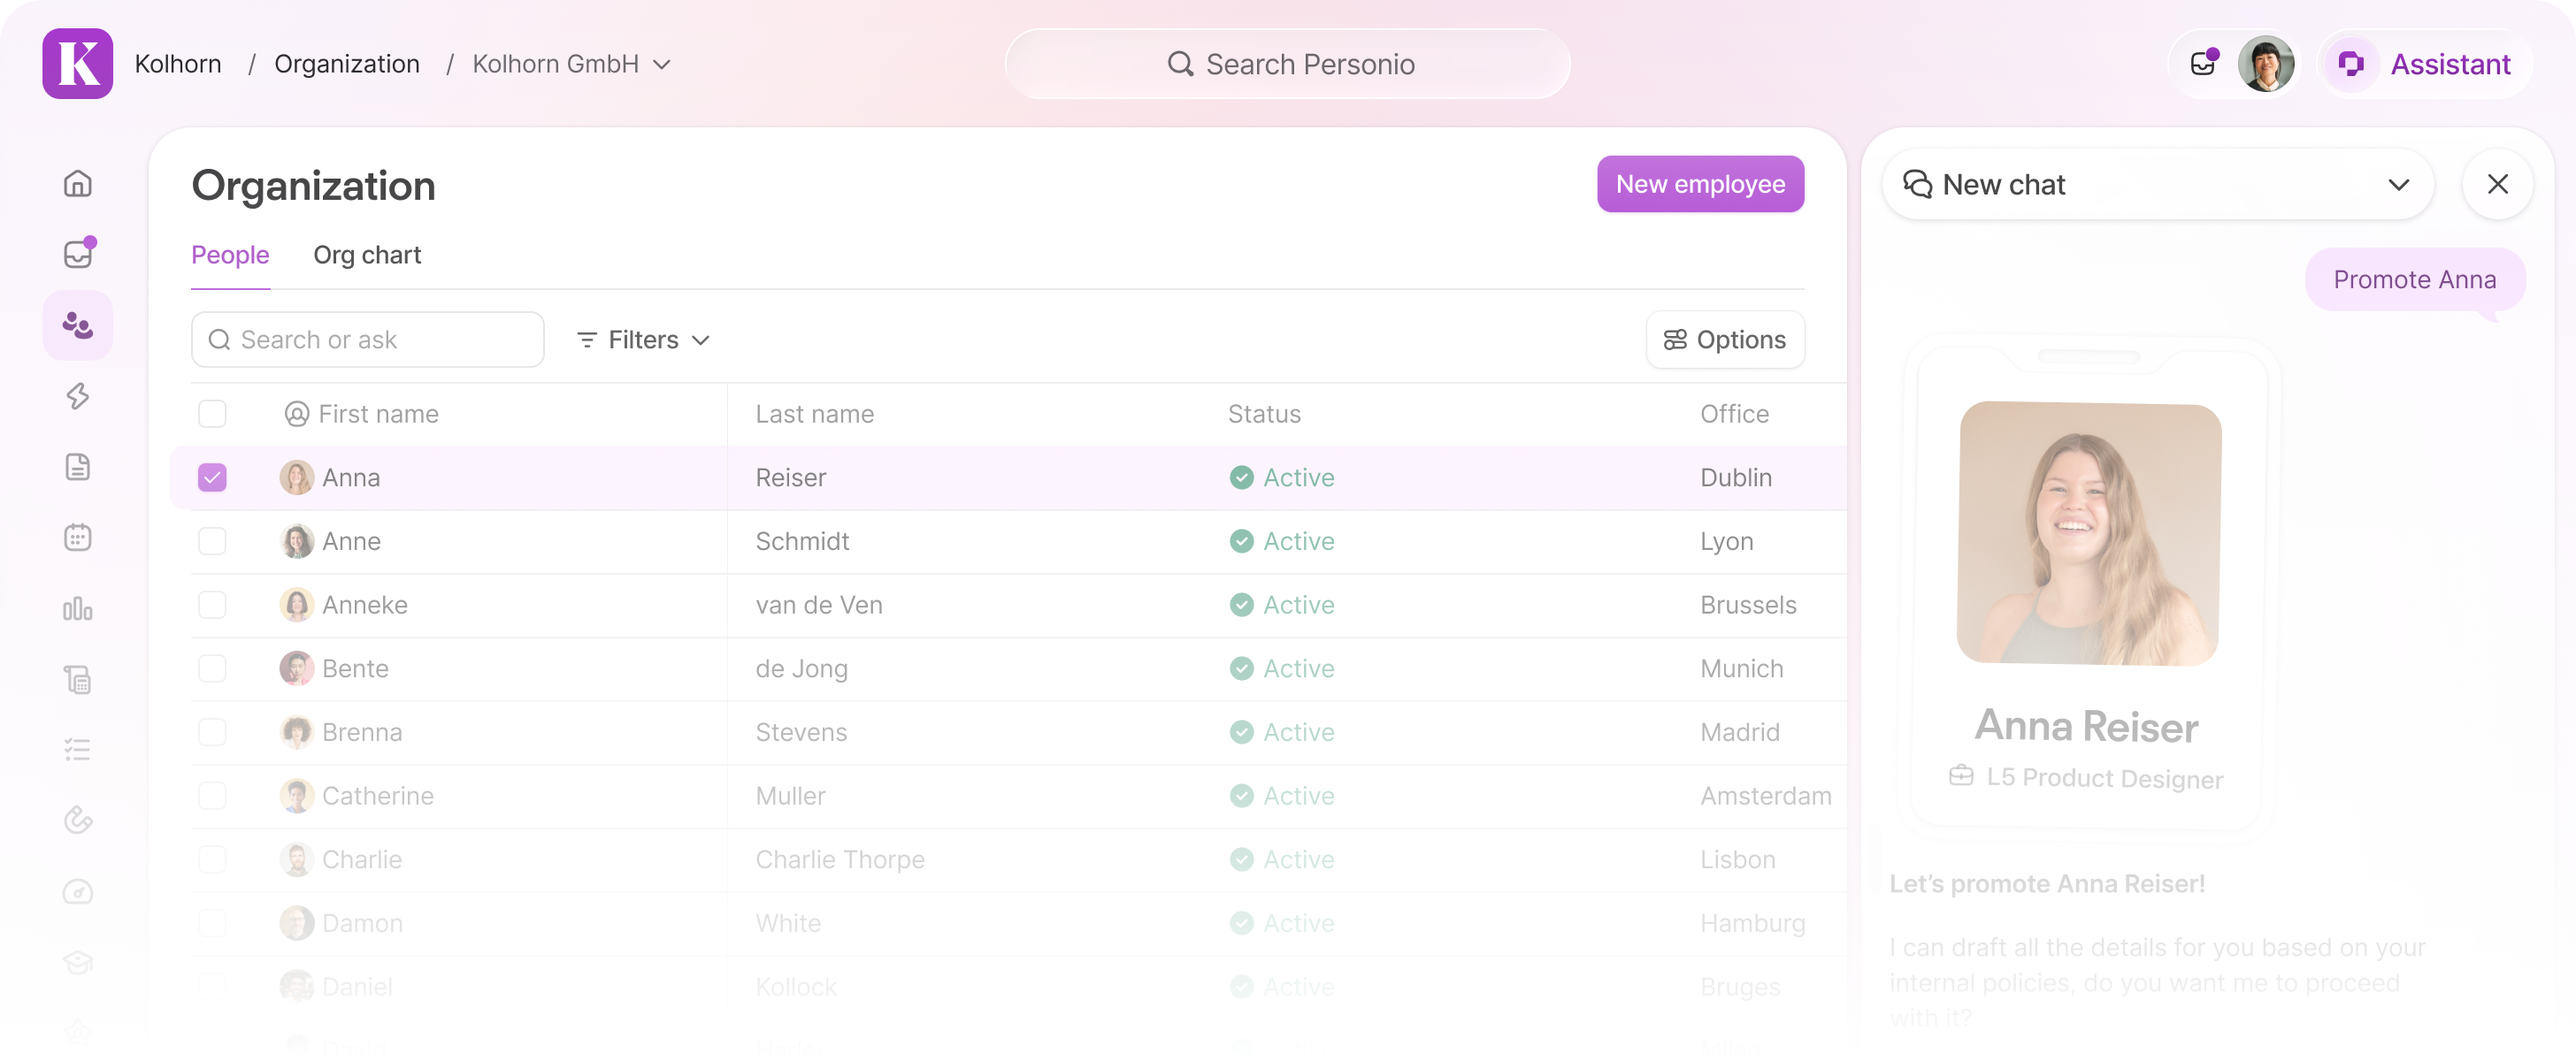
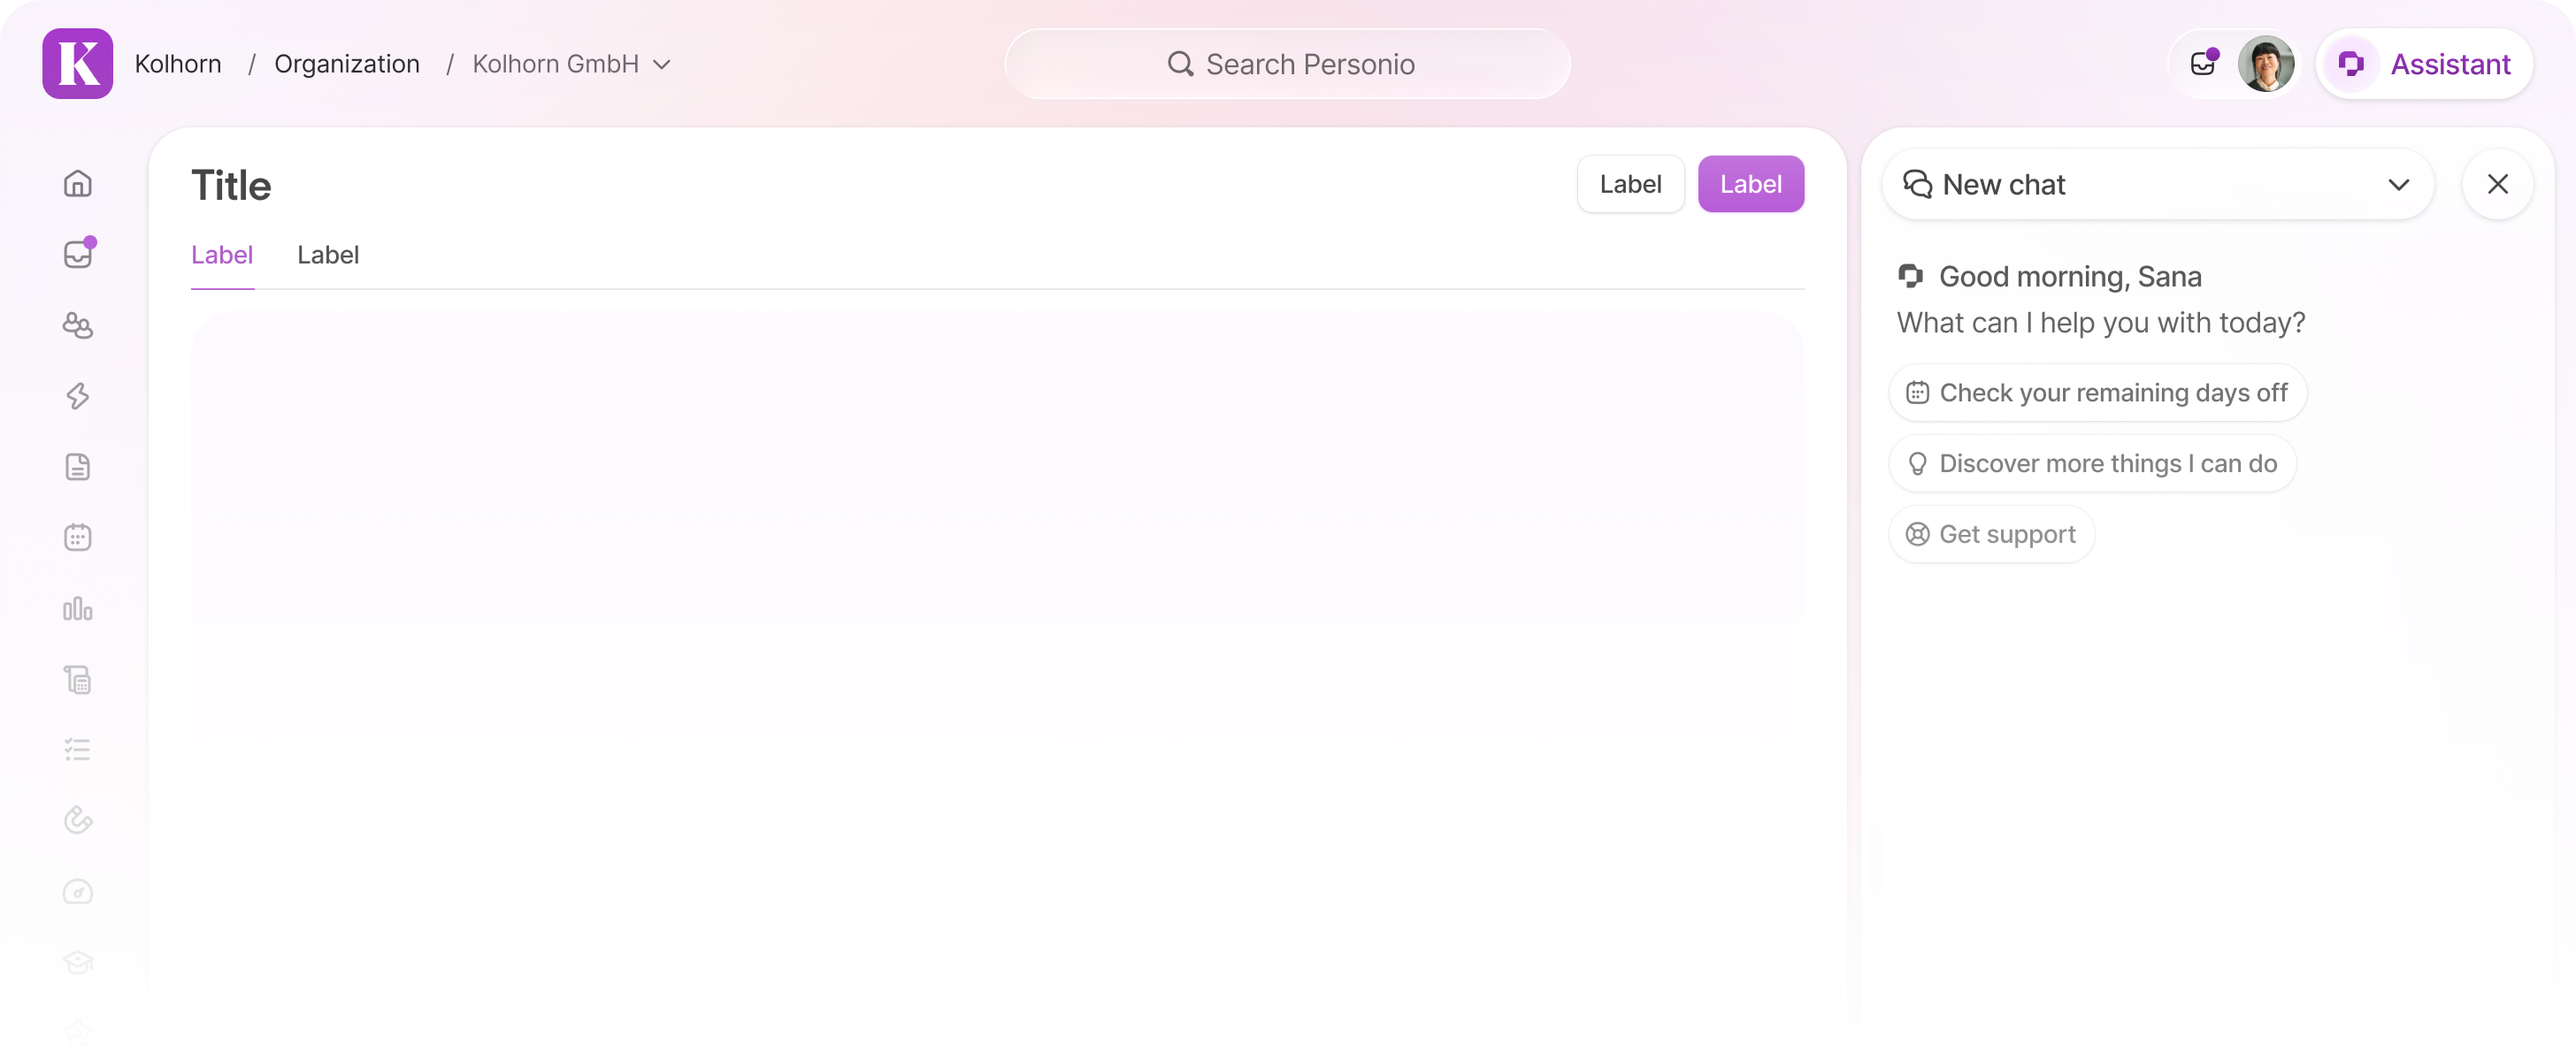
Add case study media and remove placeholder progress item

diff --git a/index.html b/index.html
@@ -62,7 +62,6 @@
             <div class="video-segments project-video-segments" role="group" aria-label="Personio preview video segments" data-video-segments>
               <button class="video-segment is-active" type="button" aria-label="Play preview video 1" aria-pressed="true" data-video-segment="0"><span class="video-segment-track"><span class="video-segment-progress" data-video-progress="0"></span></span></button>
               <button class="video-segment" type="button" aria-label="Play preview video 2" aria-pressed="false" data-video-segment="1"><span class="video-segment-track"><span class="video-segment-progress" data-video-progress="1"></span></span></button>
-              <button class="video-segment" type="button" aria-label="Preview video 3 coming soon" aria-pressed="false" aria-disabled="true" disabled data-video-segment="2"><span class="video-segment-track"><span class="video-segment-progress" data-video-progress="2"></span></span></button>
             </div>
             <div class="video-segments performance-image-segments" role="group" aria-label="Performance screenshots">
               <button class="video-segment is-active" type="button" aria-label="Show performance screenshot 1" aria-pressed="true" data-performance-image="0"><span class="video-segment-track"><span class="video-segment-progress" data-performance-image-progress="0"></span></span></button>
@@ -120,35 +119,34 @@
               <p>These persistent controls establish orientation while the Assistant stays available beside the active product page.</p>
             </div><figure class="case-study-media"><img src="assets/personio-top-actions.png" alt="Personio organization page with global search in the header and Assistant, inbox, and profile actions at the top." /></figure></section>
 
-            <section class="case-study-section" id="case-options"><div class="case-study-copy">
+            <section class="case-study-section case-study-section--media" id="case-options"><div class="case-study-copy">
               <h3>One interaction model had to serve the whole workflow.</h3>
               <p>Overlay, page-level AI, and an embedded panel were compared. The overlay kept its interruptions; page-level AI could not carry a conversation across the product.</p>
               <p>The embedded Assistant offered continuity, with the frame and page adapting around it.</p>
-            </div><figure class="case-study-image-placeholder"><div><span>Image placeholder · Interaction models</span><p>Overlay, page-level AI, and embedded panel at one workflow step.</p></div></figure></section>
+            </div><figure class="case-study-media"><img src="assets/one-interaction-model.png" alt="Organization employee list beside an Assistant conversation drafting a promotion for Anna Reiser." /></figure></section>
 
-            <section class="case-study-section" id="case-responsive"><div class="case-study-copy">
+            <section class="case-study-section case-study-section--media" id="case-responsive"><div class="case-study-copy">
               <h3>The surface responds to available space.</h3>
               <p>Wide viewports use a resizable side panel beside the page. Narrow screens switch to full-screen; <code>/assistant</code> supports immersive work.</p>
               <p>The same conversation is intended to persist between modes.</p>
-            </div><figure class="case-study-image-placeholder"><div><span>Image placeholder · Responsive states</span><p>Wide panel, narrow full-screen, and persistent thread.</p></div></figure></section>
+            </div><figure class="case-study-media"><img src="assets/responsive-surface.png" alt="Payroll cost report beside an Assistant that scopes the request, retrieves payroll data, and prepares the report." /></figure></section>
 
-            <section class="case-study-section" id="case-context"><div class="case-study-copy">
+            <section class="case-study-section case-study-section--media" id="case-context"><div class="case-study-copy">
               <h3>Conversation state and page context are separate contracts.</h3>
               <p>The thread persists across routes; the current URL can inform page-aware prompts.</p>
               <p>Context payload, permissions, unsaved state, and fallbacks require technical and security validation. Persistent chat does not mean unrestricted page access.</p>
-            </div><figure class="case-study-image-placeholder"><div><span>Image placeholder · Context flow</span><p>Persistent thread with page-aware prompt changes.</p></div></figure></section>
+            </div><figure class="case-study-media"><img src="assets/shared-patterns.png" alt="Personio home dashboard with inbox highlights, time tracking, profile shortcuts, and an Assistant handling a sick-day request." /></figure></section>
 
-            <section class="case-study-section" id="case-platform"><div class="case-study-copy">
+            <section class="case-study-section case-study-section--media" id="case-platform"><div class="case-study-copy">
               <h3>Shared patterns support distinct AI surfaces.</h3>
               <p>The Assistant can host specialist widgets; focused tools such as summaries can stay within product pages.</p>
-              <p>Shared UI patterns provide consistency while product teams own domain data and agents. The technical brief proposes routing requests through Amazon Bedrock.</p>
-            </div><figure class="case-study-image-placeholder"><div><span>Image placeholder · AI surfaces</span><p>Frame, Assistant, specialist widgets, page tools, and ownership.</p></div></figure></section>
+              <p>Shared UI patterns provide consistency while product teams own domain data and agents.</p>
+            </div><figure class="case-study-media"><img src="assets/shared-surfaces.png" alt="Workplaces table alongside an Assistant that guides setup progress and workspace creation." /></figure></section>
 
-            <section class="case-study-section" id="case-outcome"><div class="case-study-copy">
+            <section class="case-study-section case-study-section--media" id="case-outcome"><div class="case-study-copy">
               <h3>The redesign joins the frame and Assistant.</h3>
-              <p>Global search, employee profile, inbox, navigation, and AI share a persistent product frame.</p>
-              <p>Proposed measures include CSAT, weekly use, context loss, mode changes, task completion, support, and performance. Delivery and impact remain unverified.</p>
-            </div><figure class="case-study-image-placeholder"><div><span>Image placeholder · Connected experience</span><p>Header, active page, navigation, and responsive Assistant.</p></div></figure><footer class="case-study-source-note">[Confirm role, dates, final scope, delivery, and outcomes.]</footer></section>
+              <p>Global search, employee profile, inbox, navigation, and AI share a persistent product frame across viewports and devices.</p>
+            </div><figure class="case-study-media"><img src="assets/responsive-states.png" alt="Four mobile Personio screens showing inbox highlights, assistant entry points, search, and a full-screen profile experience." /></figure></section>
           </article>
           <article class="case-study-article" data-case-study-project="2" hidden>
             <header class="case-study-intro" id="customization-intro">
